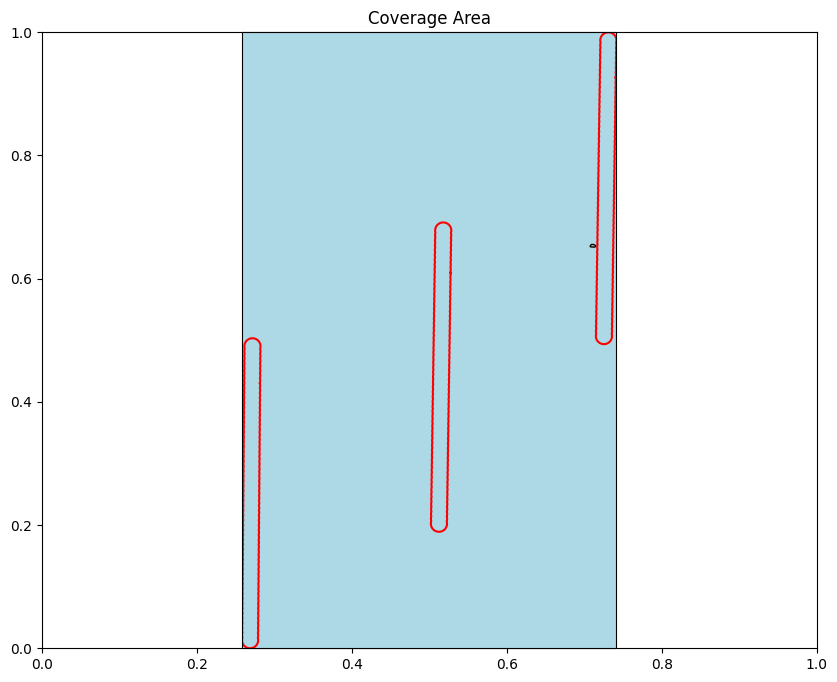
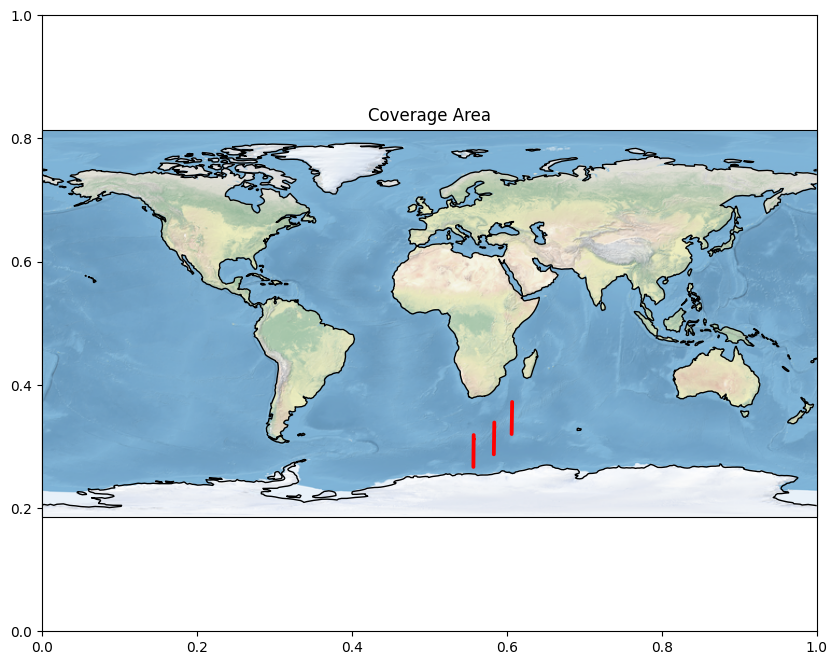
with Earth!

diff --git a/earth_area_coverage.py b/earth_area_coverage.py
@@ -24,26 +24,12 @@ def read_csv_file(file_path):
             lat_lon.append(row)
     return lat_lon
 
-R_EARTH = 6278*1e3 #in meters
+R_EARTH = 6278*1e3 # radius of earth in meters
 def compute_earth_interior_angle(ele, alt):
-    '''This function computes the earth interior angle for a given elevation angle and altitude.
-    This is the angle between the satellite and the observer on the Earth's surface viewing the satellite
-    at the given elevation angle. This is more useful for plotting than the look angle, since it
-    can used alonside Earth's Radius to draw a circle around the subsatellite point to get
-    the view cone of observers on the Earth's surface that would be able to see the satellite.
-
-    Args:
-    - ele (float): Elevation angle of the satellite [deg]
-    - alt (float): Altitude of the satellite [km]
-
-    '''
     ele = ele * math.pi / 180.0
-
     rho = math.asin(R_EARTH/(R_EARTH + alt * 1e3))
-
     eta = math.asin(math.cos(ele)*math.sin(rho))
     lam = math.pi/2.0 - eta - ele
-
     return lam #returns in radians 
 
 ele = 0.0
@@ -97,70 +83,22 @@ area_covered = constellation.area
 def plot_coverage(coverage, filename): 
     fig, ax = plt.subplots(figsize=(10,8))
     ax = fig.add_subplot(1,1,1,projection=ccrs.PlateCarree())
-    ax.add_feature(cfeature.LAND, facecolor = 'lightgray')
-    ax.add_feature(cfeature.OCEAN, facecolor = 'lightblue')
-    ax.add_feature(cfeature.COASTLINE)
-    ax.add_feature(cfeature.BORDERS, linestyle=':')
-    ax.add_feature(cfeature.LAKES, facecolor = 'lightblue', alpha=0.5)
-    ax.add_feature(cfeature.RIVERS, edgecolor = 'blue')
-    #ax.set_aspect('equal', adjustable = 'box')
-    ax.set_extent([-180, 180, -90, 90], crs=ccrs.PlateCarree())
-
+    ax.stock_img()
     for polygon in coverage.geoms: 
         ax.plot(*polygon.exterior.xy, color = 'red', transform=ccrs.PlateCarree())
-    
-    xmin, ymin, xmax, ymax = coverage.bounds
-    ax.set_xlim(xmin, xmax)
-    ax.set_ylim(ymin, ymax)
+    ax.set_global()
+    ax.coastlines()
+    ax.set_extent([-180, 180, -90, 90], crs=ccrs.PlateCarree())
     ax.set_xlabel('Longitude')
     ax.set_ylabel('Latitude')
     ax.set_title('Coverage Area')
-    # plt.grid(True)
+    plt.grid(True)
     # plt.show()
     plt.savefig(filename, bbox_inches = 'tight', pad_inches = 0.1)
     plt.close()
 
 plot_coverage(constellation, "test_coverage.png")
 
-'''
-for i in range(0, int(num_sat)): 
-    sat_coverage = MultiPolygon()
-    x = i*2
-    latitude = lat_lon[:,x] #index the i-th column to get current latitude
-    latitude = latitude.astype(float)
-    longitude = lat_lon[:,x+1] #index the i+1-th column to get current longitude 
-    longitude = longitude.astype(float)
-    alt = heights[i]
-    d_horizon_deg = compute_earth_interior_angle(ele,alt)
-    lat_rad = np.radians(latitude)
-    lon_rad = np.radians(longitude)
-    for k in range(0,num_points):
-        circle_points = np.empty((100,2))
-        for j in range(100):
-            angle = 360*j/100 #degrees
-            circle_points[j, 0] = longitude[k] + d_horizon_deg*np.cos(angle)
-            circle_points[j, 1] = latitude[k] + d_horizon_deg*np.sin(angle)
-        #circle_points = cartopy.geodesic.Geodesic().circle(lon=longitude, lat=latitude, radius=d_horizon_deg, n_samples=100, endpoint = False)
-        coverage_area = Polygon(circle_points) 
-        sat_coverage = sat_coverage.union(coverage_area)
-    constellation_coverage = constellation_coverage.union(sat_coverage)
-
-'''
-
-'''
-# find area coverage relative to original area
-total_area = original_coverage.union(constellation_coverage)
-
-# Plot coverage area for satellite constellation
-fig, ax = plt.subplots(figsize=(10,5))
-for polygon in coverage.geoms: 
-    ax.add_patch(Circle((polygon.centroid.x, polygon.centroid.y), d_horizon_deg, color = 'b', alpha=0.1))
-    ax.set_xlabel('Longitude (degrees)')
-    ax.set_ylabel('Latitude (degrees)')
-    ax.set_title('Area visible from satellites over one hour') 
-    ax.grid(True) 
-    plt.show()
-'''
 # could calculate the original surface area coverage 
 # and then do a union of that with the new area coverage 
 # and that would give the best matching to the previous area coverage
